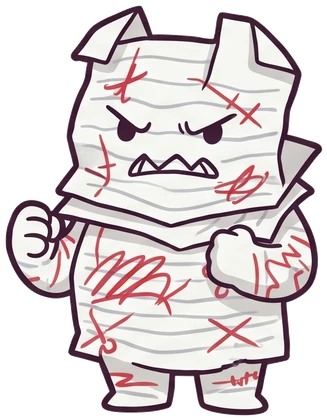
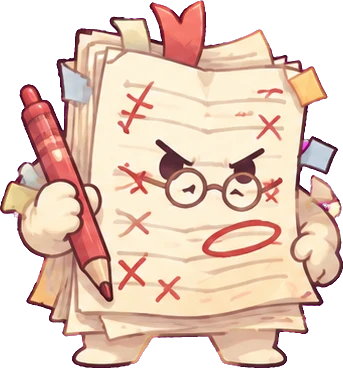
👾 괴물 7종 새 그림 (판 100)
Claude-Session: https://claude.ai/code/session_01WWoPCKk2gGNwj6qV14RFC8

diff --git a/index.html b/index.html
@@ -707,7 +707,7 @@ body{background:
 .village::after{content:"";position:absolute;left:0;right:0;bottom:0;height:110px;pointer-events:none;z-index:1;
   background:linear-gradient(rgba(18,21,38,0),rgba(18,21,38,.55) 55%,var(--night))}
 .village > .trail{z-index:3}
-/* 🌼 들꽃 초원 (10-25 판 99) — 숲 그림 아래 잔디밭에 반복 무늬만 얹어요. 집 배치·마을 높이는 그대로
+/* 🌼 들꽃 초원 (10-25 판 100) — 숲 그림 아래 잔디밭에 반복 무늬만 얹어요. 집 배치·마을 높이는 그대로
    .village 에 isolation 을 줘서, 초원(z -1)이 마을 배경 바로 위 · 모든 내용 아래에 깔려요. ::before/::after 와는 따로예요 */
 .village{isolation:isolate}
 .village > .meadow{position:absolute;left:0;right:0;bottom:0;z-index:-1;pointer-events:none;
@@ -1991,7 +1991,7 @@ button.wb-slot{font:inherit;color:inherit;cursor:pointer}
 .house .nm.plate-pets,.wnm.plate-pets,.plate-chip.plate-pets{background:linear-gradient(#FFE3C4,#F2B47E);color:#5A3215;border-color:#9A5A2A;box-shadow:0 0 10px rgba(255,190,120,.6),0 3px 6px rgba(0,0,0,.25)}
 .house .nm.plate-fairy,.wnm.plate-fairy,.plate-chip.plate-fairy{background:linear-gradient(#E6FFF6,#B9E7FF 55%,#E8C9FF);color:#2E3D6B;border-color:#7B8FD6;box-shadow:0 0 12px rgba(170,220,255,.75),0 3px 6px rgba(0,0,0,.25)}
 .house .nm.plate-ribbon::before,.house .nm.plate-ribbon::after{background:#C25A85}
-/* 🏷 그림 이름표 (10-25 판 99) — plates/키.webp = 왼쪽 장식 | 늘어나는 가운데 | 오른쪽 장식. 가운데만 이름 길이만큼 늘어나요 */
+/* 🏷 그림 이름표 (10-25 판 100) — plates/키.webp = 왼쪽 장식 | 늘어나는 가운데 | 오른쪽 장식. 가운데만 이름 길이만큼 늘어나요 */
 .house .nm[class*="plate-"],.wnm[class*="plate-"],.plate-chip[class*="plate-"]{background:none!important;box-shadow:none!important;animation:none!important;border-radius:0; border-style:solid;border-color:transparent;border-image-repeat:stretch;line-height:1.25;text-shadow:none;white-space:nowrap; border-width:0 var(--pr) 0 var(--pl);border-image-width:0 var(--pr) 0 var(--pl);padding:var(--pt) .1em var(--pb)}
 .house .nm[class*="plate-"]::before,.house .nm[class*="plate-"]::after{display:none}
 .house.lit .nm[class*="plate-"]{filter:drop-shadow(0 0 6px rgba(255,200,90,.9))}
@@ -3153,7 +3153,7 @@ const NEW_WINS2 = [["win_lace2", "🪟", "넓은 레이스 커튼 창문", 200, 
 { const at = DEFAULT_SHOP.findIndex(x=>x.code==='win_potion')+1 || DEFAULT_SHOP.length; DEFAULT_SHOP.splice(at, 0, ...NEW_WINS2.map(([code,emoji,name,price,w,h])=>({code,emoji,name,price,w,h,active:true,category:'furniture',icon:code,layer:'furniture'}))); NEW_WINS2.forEach(r=>FURN_IMG.add(r[0])); }
 const WIN2 = new Set(NEW_WINS2.map(r=>r[0]));   // 넓은 창문은 칸 안에 딱 맞게 (위로 크게 안 그려요)
 // 🛋 새 가구 66종 (10-13, newfurn66.sql 과 같아요) — code, emoji, 이름, 가격, 가로, 세로, 분류
-// 🌙 별밤 서재 세트 (10-25 판 99) — 가구 10(전부 2×2) · 소품 12, 코인으로 사요. 그림 furn/st_*.webp
+// 🌙 별밤 서재 세트 (10-25 판 100) — 가구 10(전부 2×2) · 소품 12, 코인으로 사요. 그림 furn/st_*.webp
 const NEW_STUDY = [
   ["st_moonchair","🌙","초승달 안락의자",280,2,2,"furniture"],
   ["st_moonshelf","📚","초승달 책장",360,2,2,"furniture"],
@@ -5654,7 +5654,7 @@ const bossItemImg = (code, cls='') => `<img class="bi-img ${cls}" src="monster/$
 // 🎨 제미나이 괴물 그림 (monster/코드.webp) — 올라오면 여기에 코드를 넣어요. 없으면 임시 그림
 const MONSTER_IMG = new Set(['slump','typo','proof','blank','plot','short','revise']);   // (10-21 ⑭) 제미나이 그림 7종
 function monsterArt(m){
-  if(MONSTER_IMG.has(m.code)) return `<img class="mon-img" src="monster/${m.code}.webp" alt="" draggable="false">`;
+  if(MONSTER_IMG.has(m.code)) return `<img class="mon-img" src="monster/${m.code}.webp?v=2" alt="" draggable="false">`;   // 🎨 10-25 새 그림 7종 (챗지피티)
   const c = m.color, d = m.dark;
   const eyes = m.code==='slump' ? `<path d="M44 58 q6 4 12 0 M64 58 q6 4 12 0" stroke="#3A3346" stroke-width="3" fill="none" stroke-linecap="round"/>`
     : m.code==='blank' ? `<circle cx="50" cy="56" r="7" fill="#fff" stroke="#9AA0B5" stroke-width="2"/><circle cx="70" cy="56" r="7" fill="#fff" stroke="#9AA0B5" stroke-width="2"/>`
@@ -6244,7 +6244,7 @@ const VOID_BG_VER = {base:'?v=3'};   // 같은 이름으로 그림을 바꾸면 
 const voidBgCSS = k => { const key = k in VOID_BGS ? k : 'base'; return `url(void/${key}.webp${VOID_BG_VER[key]||''}) center/cover no-repeat, ${VOID_BGS[key].grad}`; };
 const VOID_FARM_BG = 'url(void/farm.webp?v=2) center/cover no-repeat, url(bg/Pet_background.webp) center/cover no-repeat, linear-gradient(#24124F 0%,#5B3E9A 38%,#4F8A5E 39%,#2D5A3A 100%)';
 let VOID = null, VSEL = null, VROT = 0, VHOVER = null, vbagTab = 'void', vcraftTab = '';
-/* 🚪 아공간 방 (10-25 판 99 · voidrooms.sql) — 서버는 가구 전체 + 방 목록을 줘요.
+/* 🚪 아공간 방 (10-25 판 100 · voidrooms.sql) — 서버는 가구 전체 + 방 목록을 줘요.
    화면은 지금 고른 방(VROOM)만 보이게 items·bg·fx 를 그 방 것으로 바꿔 끼워요 (_all 에 전체가 있어요) */
 let VROOM = 0; try{ VROOM = +(localStorage.getItem('majam-vroom')||0) || 0; }catch(e){}
 const VROOM_NAMES = ['첫 번째 방', '전시실', '보물 창고', '비밀 방'];
@@ -6401,7 +6401,7 @@ function voidCraftHTML(V){
     <div class="vcraft">${cards}</div>
     ${walls.length ? `<h4 style="margin-top:.8rem">${vcraftTab==='glass' ? `🔮 별유리 가구 <span class="small">도안 없이 💠로 바로 만들어요 · 어느 배경에나 어울리는 아공간 기본 가구예요</span>` : `🧱 ${esc(b.name)} 벽 <span class="small">도안 없이 💠로 바로 만들어요 · 세트에는 안 들어가요 · 가로로 놓을 때 제일 예뻐요</span>`}</h4><div class="vcraft">${walls.map(card).join('')}</div>` : ''}`;
 }
-/* 🔕 확인 창 끄기 (10-25 판 99, 주민 건의) — 켜면 가구 사기·아공간 가구 만들기·치우기 때 묻는 창과 알림을 건너뛰어요. 브라우저마다 기억 */
+/* 🔕 확인 창 끄기 (10-25 판 100, 주민 건의) — 켜면 가구 사기·아공간 가구 만들기·치우기 때 묻는 창과 알림을 건너뛰어요. 브라우저마다 기억 */
 const QUIET = () => { try{ return localStorage.getItem('majam-quiet')==='1'; }catch(e){ return false; } };
 function quietLabel(){ document.querySelectorAll('[data-quiet]').forEach(b=>{ const q = QUIET(); b.textContent = q ? '🔕 확인 창 꺼짐' : '🔔 확인 창 켜짐'; b.classList.toggle('on', q);
   b.title = q ? '가구를 살 땐 1개씩 바로 사고, 묻는 창·알림 없이 바로 해요. 누르면 다시 켜져요' : '누르면 가구 사기·만들기·치우기 때 묻는 창과 알림을 건너뛰어요'; }); }
@@ -7600,7 +7600,7 @@ async function showTruckReport(){   // 📬 우편함으로 모아요
 // 마을(숲 그림의 나무 아래)에도 와 있는 간식차를 세워 둬요 — 누르면 바로 마시기·먹기
 function renderVillageTrucks(){
   const el = document.getElementById('vtrucks'); if(!el) return;
-  const cafe = `<div class="vcafe" title="내 카페 (음료 가판대)"><img class="vshop" src="bg/cafe_shop.webp" alt="숲속 카페" draggable="false" data-cafe-go><button class="vpill" type="button" data-cafe-go>☕ 내 카페 열기</button></div>`;   // ☕ 카페 건물 (10-25 판 99) — 누르면 음료 가판대
+  const cafe = `<div class="vcafe" title="내 카페 (음료 가판대)"><img class="vshop" src="bg/cafe_shop.webp" alt="숲속 카페" draggable="false" data-cafe-go><button class="vpill" type="button" data-cafe-go>☕ 내 카페 열기</button></div>`;   // ☕ 카페 건물 (10-25 판 100) — 누르면 음료 가판대
   el.innerHTML = cafe + ['coffee','dessert'].map(kind=>{
     const t = TRUCKS.find(x=>x.kind===kind); if(!t) return '';
     const K = TRUCK_KIND[kind], done = t.my_reward!=null;
@@ -7838,7 +7838,7 @@ const NAMEPLATE_DEF = {wood:{emoji:'🪵', name:'나무'}, snow:{emoji:'❄',
   pets:{emoji:'🐾', name:'펫 도감', front:true, how:'펫 도감 일반·희귀·전설 전부'}, fairy:{emoji:'🧚', name:'요정 도감', front:true, how:'요정 도감 전부'},
 };
 // 이름 앞 그림 (내 집은 내 명찰, 이웃은 NAMEPLATE_OF)
-const plateEmo = p => '';   // 🏷 그림 이름표라 이름 앞 그림은 뺐어요 (10-25 판 99)
+const plateEmo = p => '';   // 🏷 그림 이름표라 이름 앞 그림은 뺐어요 (10-25 판 100)
 async function checkPlates(){
   if(!api.checkPlates) return;
   try{ const r0 = await api.checkPlates(), r = Array.isArray(r0) ? r0[0] : r0, fresh = (r && r.fresh) || [];
@@ -8695,7 +8695,7 @@ roomEl.addEventListener('mouseover', e=>{
   if(JSON.stringify(h)!==JSON.stringify(hover)){ hover=h; if(selected) renderMyHouse(); }
 });
 roomEl.addEventListener('mouseleave', ()=>{ hover=null; if(selected) renderMyHouse(); });
-// 🖐 아공간 가구도 끌어서 옮기기 (10-25 판 99, 주민 건의) — 마우스는 바로, 폰은 꾹 눌렀다가(0.3초)
+// 🖐 아공간 가구도 끌어서 옮기기 (10-25 판 100, 주민 건의) — 마우스는 바로, 폰은 꾹 눌렀다가(0.3초)
 var VDRAG = null, VDRAG_AT = 0;
 function vdragClear(){ document.querySelectorAll('#voidStage .tile.pv-ok,#voidStage .tile.pv-no').forEach(t=>t.classList.remove('pv-ok','pv-no')); }
 function vdragStart(){
@@ -9495,6 +9495,6 @@ start();
 <script src="greenhouse.js?v=1025c"></script>
 <script src="publisher.js?v=1025a"></script>
 <script src="merchant.js?v=1025f"></script>
-<p class="site-ver">마감의 숲 · 10-25 판 99</p>
+<p class="site-ver">마감의 숲 · 10-25 판 100</p>
 </body>
 </html>
